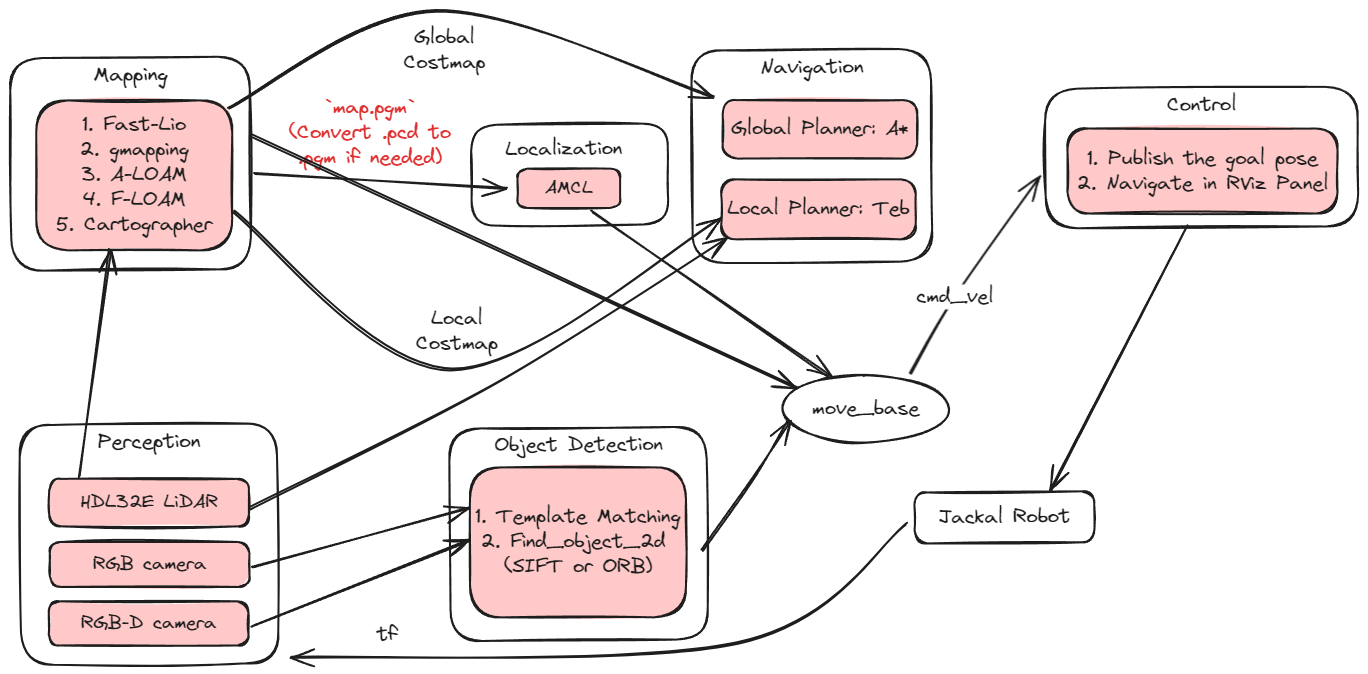
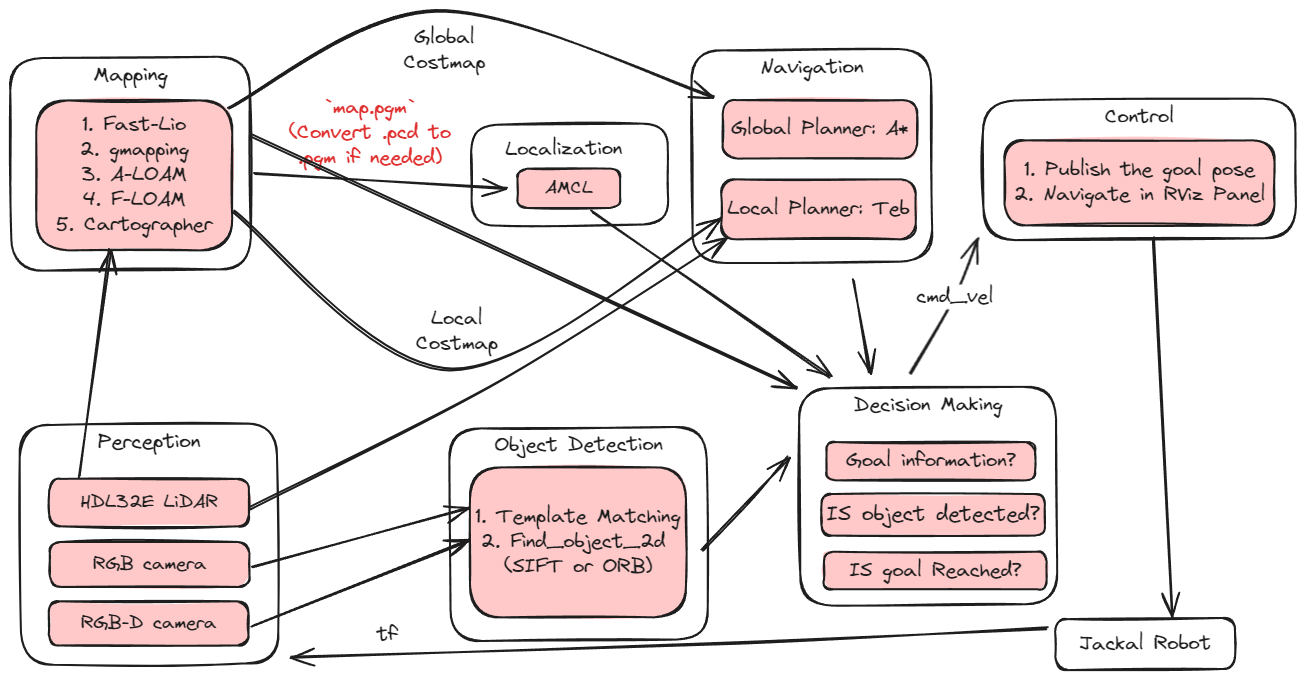
Update README.md

Changed region(s): [[0.0, 0.0, 1.0, 0.997], [0.245, 0.7789, 0.2757, 0.8101]]

diff --git a/README.md b/README.md
@@ -87,13 +87,19 @@ The navigation process consists of two parts: global planning and local planning
 - **Global Planning:** The global planner used is `A*`. The `move_base` package is used to perform the global planning process. The global planner parameters can be tuned in the `jackal_navigation/params/global_planner_params.yaml` file.
 - **Local Planning:** The local planner used is `Teb`. The `move_base` package is used to perform the local planning process. The local planner parameters can be tuned in the `jackal_navigation/params/teb_local_planner_params.yaml` file.
 
+### Decision Making
+
+The decision making logic is shown in the flowchart below:
+
+![Implementation Logic](assets/logic_decision.png)
+
+We have mainly used three nodes to implement the decision (i.e. How to get to the desired goal) logic:
+
+- `gaol_publisher_node`: Publish the goal location (when the goal is not a box). The robot will navigate to the goal location directly.
+- `box_explorer_node`: Explore the box location (when the goal is a box). The robot will navigate to the parking area (where the boxes are spawned) and explore the box location randomly until the box is detected.
+- `template_matching_node`: Continuously detect the object (number 3 on the box) using the template matching method. If the object is detected, the robot will navigate to the object location.
+
 ## Project Structure
-
-### Implementation Logic
-
-The implementation logic of the project is shown in the flowchart below:
-
-![Implementation Logic](assets/implementation_logic.png)
 
 ### ROS Graph
 
@@ -261,6 +267,7 @@ We would like to express our gratitude to the teaching team of ME5413 for provid
 - [PythonRobotics](https://github.com/AtsushiSakai/PythonRobotics.git): A collection of robotics algorithms implemented in Python.
 - [Fast-LIO](https://github.com/hku-mars/FAST_LIO.git): A computationally efficient and robust LiDAR-inertial odometry package by hku-mars group.
 - [pcd2pgm_package](https://github.com/Hinson-A/pcd2pgm_package.git): A package for converting `.pcd` files to `.pgm` files.
+- [excalidraw](https://github.com/excalidraw/excalidraw.git): A whiteboard tool that lets you easily sketch diagrams that have a hand-drawn feel to them.
 
 ## License
 
